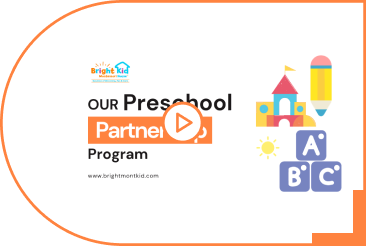
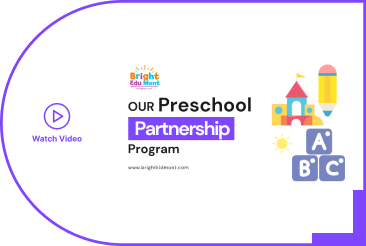
changed thumbnail images

diff --git a/src/Components/Failure.jsx b/src/Components/Failure.jsx
@@ -1,6 +1,7 @@
 import React from "react";
 import { Button } from "@nextui-org/react";
 import { Link } from "react-router-dom";
+import { Helmet } from "react-helmet";
 
 export default function Failure() {
   const handlescrolltotop = () => {
@@ -8,9 +9,12 @@ export default function Failure() {
   };
   return (
     <section
-      id="success"
+      id="failure"
       className="flex flex-col h-screen w-screen justify-start md:justify-center items-center gap-6"
     >
+      <Helmet>
+        <title>Form Submission Failed | BrightEdge</title>
+      </Helmet>
       <img src="./Assets/Images/form/BEMlogo.png" className="w-32" />
       <p className="text-6xl md:text-4xl font-bold" style={{ color: "#F44" }}>
         Oops!

diff --git a/src/pages/Form/Form.jsx b/src/pages/Form/Form.jsx
@@ -369,7 +369,7 @@ export default function Form() {
         >
           <img
             src="./Assets/Images/form/AFFORDABLEMaterials.png"
-            className="object-contain"
+            className="object-contain md:hidden"
           />
           <TextField
             id="outlined-basic"
@@ -1451,7 +1451,7 @@ export default function Form() {
         ) : (
           <>
             <img
-              src="./Assets/Images/form/video2thumbnail.png"
+              src="./Assets/Images/form/Video.png"
               style={{ width: "90vw" }}
               className="self-start cursor-pointer md:hidden"
               onClick={vid2f}

diff --git a/src/Components/NotFound/PageNotFound.jsx b/src/Components/NotFound/PageNotFound.jsx
@@ -1,10 +1,14 @@
 import React from "react";
 import { Button } from "@nextui-org/react";
 import { Link } from "react-router-dom";
+import { Helmet } from "react-helmet";
 
 function PageNotFound() {
   return (
     <section className="flex flex-col w-screen h-screen justify-start items-center gap-3 md:justify-center">
+      <Helmet>
+        <title>404 Page not Found | BrightEdge</title>
+      </Helmet>
       <img src="./Assets/Images/form/notfound.jpg" className="w-1/3 md:w-3/4" />
       <h1 className="text-5xl md:text-4xl font-bold">404 - Not Found</h1>
       <p>The page you are looking for does not exist.</p>

diff --git a/src/Components/Success.jsx b/src/Components/Success.jsx
@@ -9,6 +9,7 @@ export default function Success() {
       className="flex flex-col h-screen w-screen justify-start md:justify-center items-center gap-6"
     >
       <Helmet>
+        <title>Form Submission Success | BrightEdge</title>
         <script>
           {`
             gtag("event", "conversion", {

diff --git a/index.html b/index.html
@@ -8,7 +8,7 @@
       href="./public/Assets/Images/logo.png"
     />
     <meta name="viewport" content="width=device-width, initial-scale=1.0" />
-    <title>Brightedge</title>
+    <title>Form | BrightEdge</title>
     <!-- Google tag (gtag.js) -->
     <script
       async
